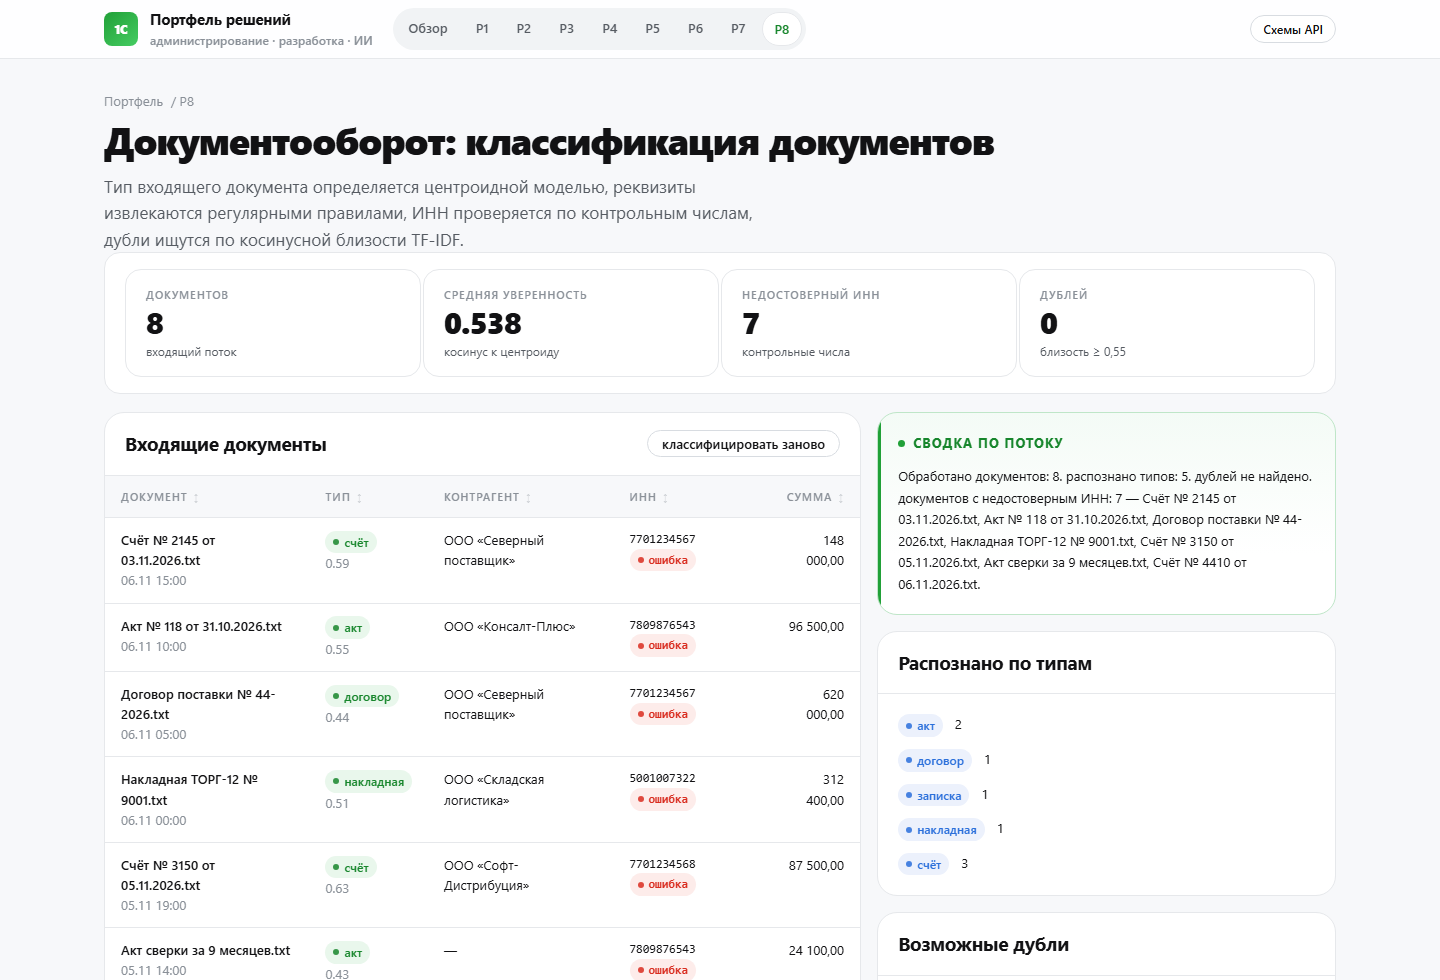
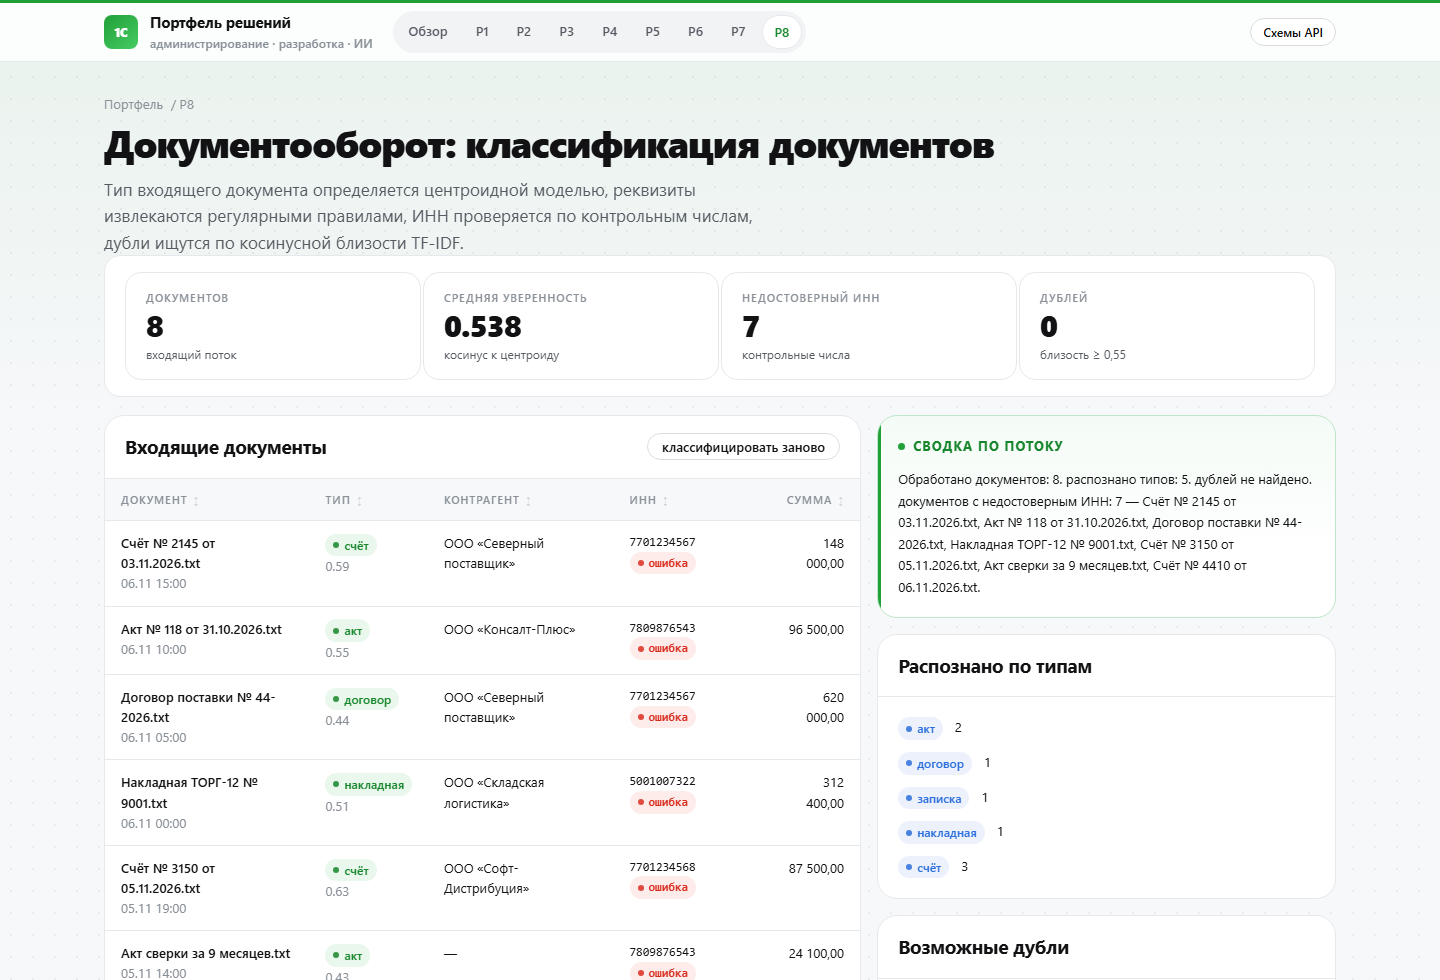
Фон лендинга: плоская точечная сетка и зелёная подсветка, зелёная полоса у шапки, своя иконка приложения

diff --git a/static/css/sber.css b/static/css/sber.css
@@ -8,7 +8,6 @@ html { -webkit-text-size-adjust: 100%; }
 
 body {
   margin: 0;
-  background: var(--bg);
   color: var(--text);
   font-family: var(--font);
   font-size: var(--fs-body);
@@ -16,6 +15,13 @@ body {
   -webkit-font-smoothing: antialiased;
   text-rendering: optimizeLegibility;
   overflow-x: hidden;
+  background-color: var(--bg);
+  background-image:
+    linear-gradient(180deg, rgba(33, 160, 56, 0.07) 0, rgba(33, 160, 56, 0) 440px),
+    radial-gradient(rgba(8, 8, 8, 0.055) 1px, transparent 1px);
+  background-size: 100% 440px, 22px 22px;
+  background-repeat: no-repeat, repeat;
+  background-attachment: scroll, fixed;
 }
 
 a { color: var(--accent-strong); text-decoration: none; transition: color var(--dur-1) var(--ease); }
@@ -45,6 +51,7 @@ h1, h2, h3, h4, p, figure { margin: 0; }
   z-index: 50;
   background: rgba(255, 255, 255, 0.86);
   backdrop-filter: saturate(180%) blur(14px);
+  border-top: 3px solid var(--accent);
   border-bottom: 1px solid var(--border);
 }
 
@@ -134,20 +141,6 @@ h1, h2, h3, h4, p, figure { margin: 0; }
   gap: var(--sp-8);
   align-items: end;
   padding: var(--sp-9) 0 var(--sp-8);
-}
-.hero::before {
-  content: "";
-  position: absolute;
-  top: calc(var(--sp-10) * -1);
-  right: -8%;
-  width: 560px;
-  height: 560px;
-  max-width: 60vw;
-  border-radius: 50%;
-  background: radial-gradient(circle at 40% 40%, rgba(33, 160, 56, 0.18), rgba(33, 160, 56, 0) 68%);
-  filter: blur(6px);
-  pointer-events: none;
-  z-index: -1;
 }
 .eyebrow {
   display: inline-flex;

diff --git a/templates/base.html b/templates/base.html
@@ -4,7 +4,9 @@
   <meta charset="utf-8">
   <meta name="viewport" content="width=device-width, initial-scale=1">
   <title>{% block title %}{{ page_title|default("Портфель решений") }}{% endblock %} · 1С и ИИ</title>
+  <meta name="theme-color" content="#21a038">
   <link rel="icon" href="/static/favicon.svg" type="image/svg+xml">
+  <link rel="apple-touch-icon" href="/static/apple-touch-icon.png">
   <link rel="stylesheet" href="/static/css/tokens.css">
   <link rel="stylesheet" href="/static/css/sber.css">
 </head>
